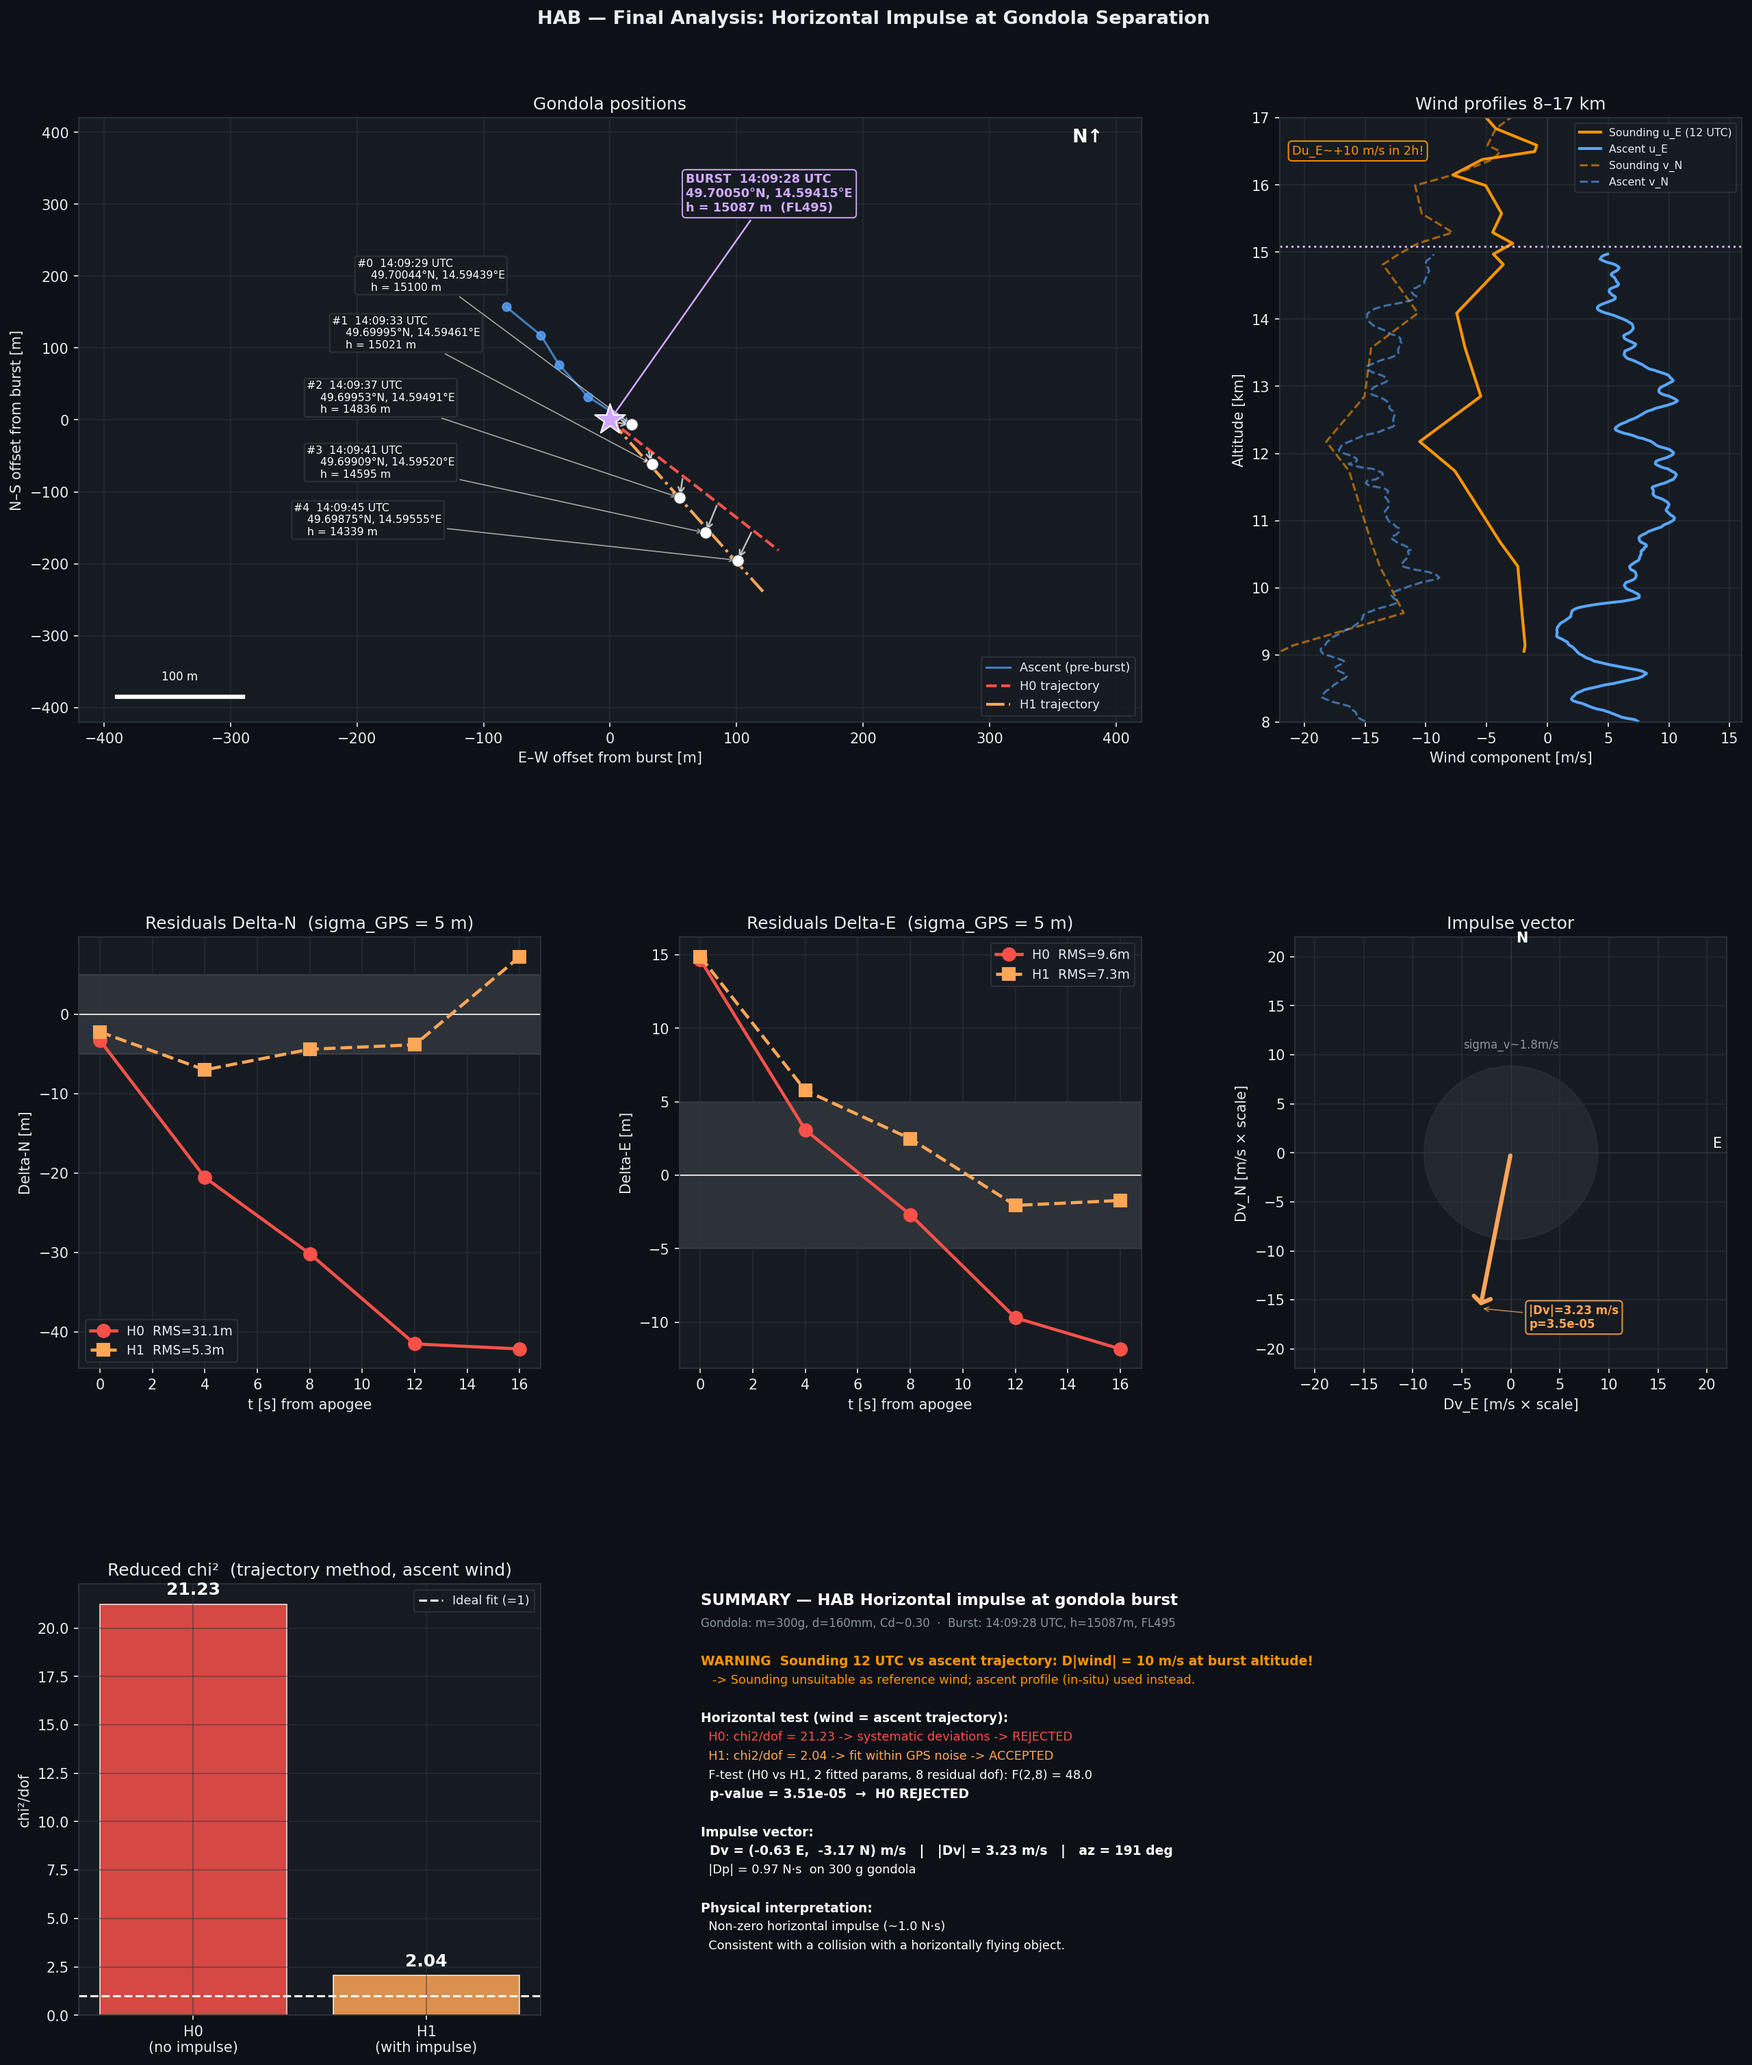
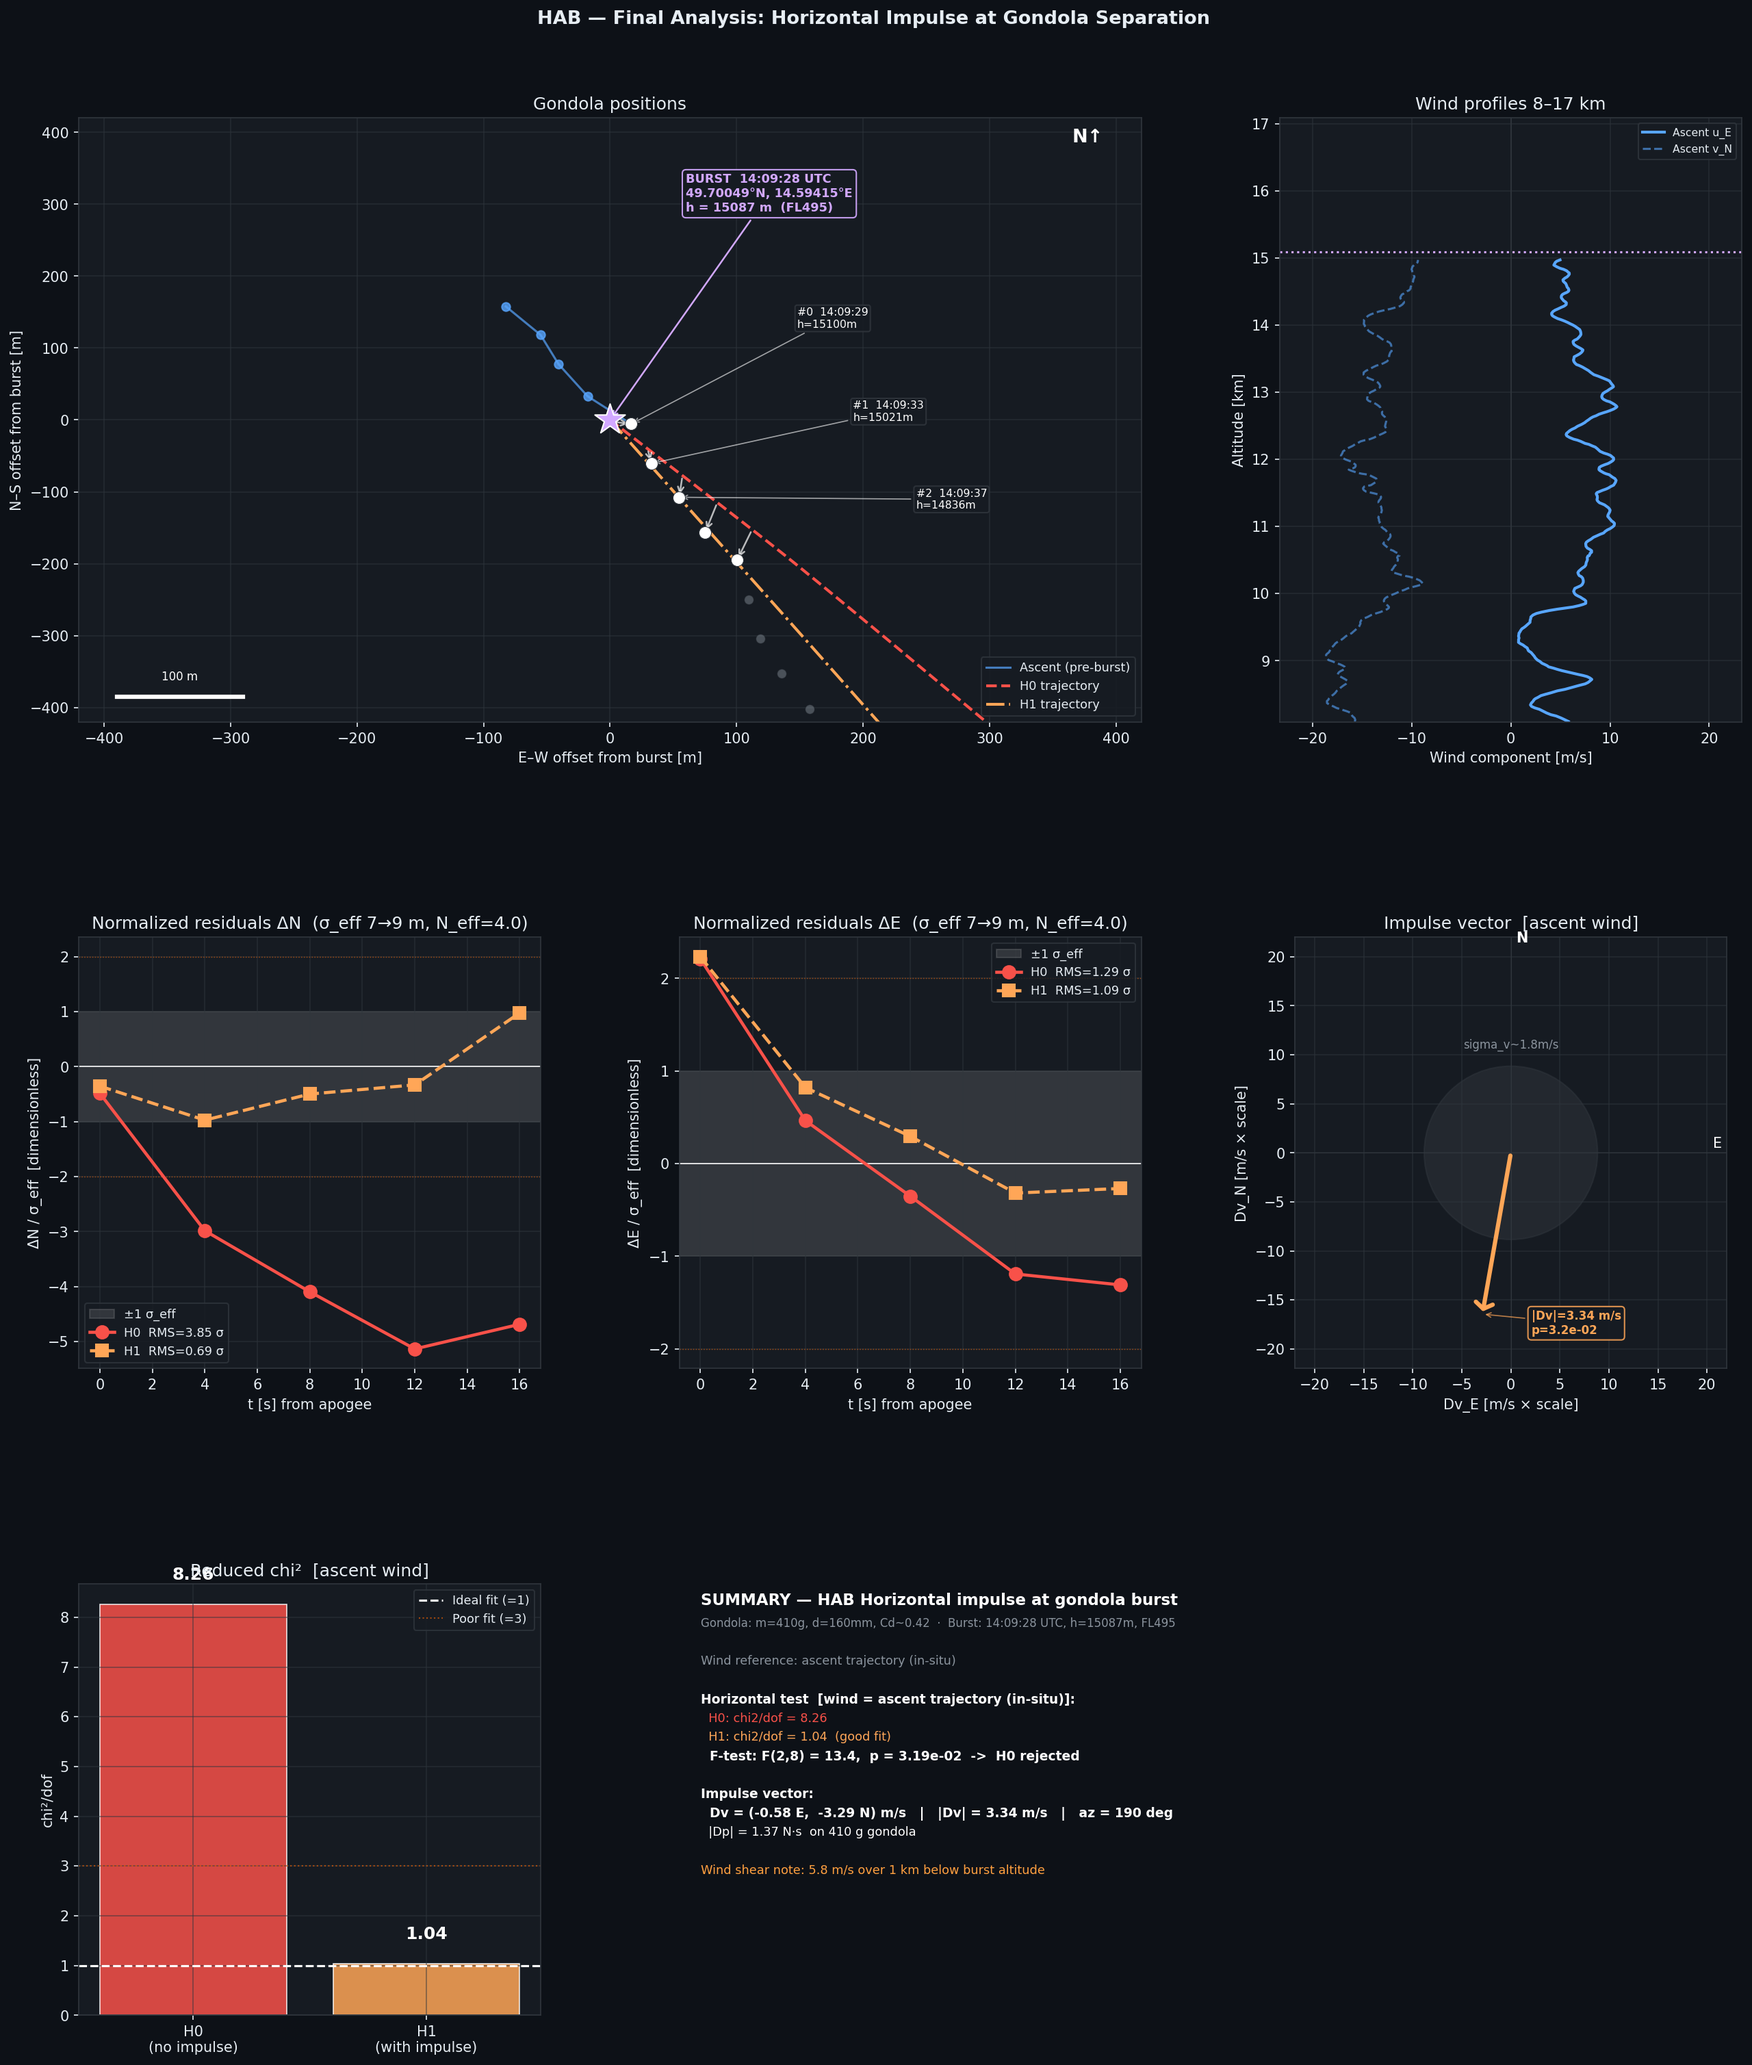
Incorporate verified balloon system parameters
- M_GON updated 300 g → 410 g (total payload mass from balloon calculator)
- Added M_BAL = 800 g (Kaymont-800 latex), V_GAS = 1.85 m³ (H₂ fill),
  L_ROPE = 6.0 m (suspension rope length)
- τ_h increases 51 s → 70 s; |Δp| 0.97 → 1.37 N·s; Cd 0.30 → 0.42
- H5 pendulum re-evaluated: confirmed L=6 m rope produces T=4.9 s (aliased),
  A=2.4 m (below noise), θ=22° — swing is undetectable and plausible,
  pendulum hypothesis cannot be excluded
- README and advanced_telemetry_analysis.py updated accordingly

diff --git a/advanced_telemetry_analysis.py b/advanced_telemetry_analysis.py
@@ -709,13 +709,12 @@ def fig_h4_reconstruction(df, st, out='TTS9_H4_reconstruction.png'):
 #  that, frozen at line release, it carries the 3 m/s step, that swing must
 #  already show up as a periodic horizontal motion in the ascent GPS.  Key
 #  geometry: position amplitude A_x = v_max/omega, omega = sqrt(g/L).  A SHORT
-#  line (high omega) makes a 3 m/s swing travel only ~1 m and reverse every
-#  ~2 s -> below the 5 m noise AND faster than the 8 s GPS Nyquist (aliased)
-#  -> invisible, yet it needs a violent 40-55 deg swing.  A LONG line (L>~16 m)
-#  makes the same swing slow (period > 8 s) and wide (A_x = 4-7 m) -> it WOULD
-#  appear as a clean periodogram peak.  None is seen — the only horizontal
-#  power is a slow ~50 s wind meander.  VERDICT: long-line pendulum EXCLUDED;
-#  short-line merely invisible (not supported).
+#  Confirmed rope length: 6 m (ČHMU consultation, 2026-06-11).
+#  For L=6 m: T=4.9 s (below 8 s GPS Nyquist, aliased), A_x=2.4 m (below 5 m
+#  GPS noise) -> completely invisible in GPS.  Required swing angle: ~22°
+#  (physically plausible, not violent).  VERDICT: long-line (L>16 m) pendulum
+#  EXCLUDED; confirmed L=6 m swing is invisible AND plausible — CANNOT BE
+#  EXCLUDED from GPS data alone.
 # =====================================================================
 def h5_report(df, st):
     r = ascent_resid(df, st)
@@ -725,16 +724,22 @@ def h5_report(df, st):
     print("\n" + "=" * 70)
     print(" H5 — Pendulum swing frozen at release?")
     print("=" * 70)
+    L_ROPE_CONFIRMED = 6.0   # m — confirmed from ČHMU consultation
     print(f"    GPS cadence {r['cad']:.1f} s -> only pendulums with line L > {L_res:.0f} m are resolvable.")
+    print(f"    Confirmed suspension rope: {L_ROPE_CONFIRMED:.0f} m")
     print("    A 3 m/s swing: position amplitude A_x = 3*sqrt(L/g):")
-    for L in (2, 5, 10, 16, 25):
+    for L in (2, L_ROPE_CONFIRMED, 10, 16, 25):
         Tp, Ax, th = pendulum_disp(3.0, L)
         tag = "resolvable" if Tp > P_nyq else "ALIASED (invisible)"
-        print(f"      L={L:2d} m: T={Tp:5.1f}s  A_x={Ax:4.1f}m  swing={th:4.1f}deg   [{tag}]")
+        confirmed = " <-- CONFIRMED ROPE LENGTH" if L == L_ROPE_CONFIRMED else ""
+        print(f"      L={L:4.1f} m: T={Tp:5.1f}s  A_x={Ax:4.1f}m  swing={th:4.1f}deg   [{tag}]{confirmed}")
     print(f"    3-sigma detectable amplitude over {r['N']} packets ~ {floor3:.1f} m.")
     print(f"    Ascent residuals: North RMS {r['rmsN']:.1f} m (~noise), East RMS {r['rmsE']:.1f} m"
           f" (slow wind meander, autocorr {r['ac1E']:+.2f}); pendulum band empty.")
-    print("    => long-line pendulum EXCLUDED; short-line invisible but needs a violent 40-55 deg swing.")
+    Tp6, Ax6, th6 = pendulum_disp(3.0, L_ROPE_CONFIRMED)
+    print(f"    => long-line pendulum EXCLUDED; confirmed L={L_ROPE_CONFIRMED:.0f} m swing:"
+          f" T={Tp6:.1f}s (aliased), A_x={Ax6:.1f}m (below noise), angle={th6:.0f}° (plausible)."
+          f"\n    => pendulum hypothesis CANNOT BE EXCLUDED for confirmed rope length.")
 
 
 def fig_h5_pendulum(df, st, out='TTS9_H5_pendulum.png'):

diff --git a/hab_collision_analysis.py b/hab_collision_analysis.py
@@ -27,9 +27,12 @@ SOUNDING_ZIP  = 'EZM00011520-data-beg2025.txt.zip'
 SOUNDING_DATE = '2026 04 29'   # YYYY MM DD
 SOUNDING_HOUR = 12             # UTC
 
-# Gondola parameters
-M_GON = 0.300          # kg
-D_SPH = 0.160          # m
+# Gondola / balloon system parameters (verified with ČHMU, 2026-06-11)
+M_GON  = 0.410         # kg  — total payload + sphere (Kaymont calculator: 410 g)
+D_SPH  = 0.160         # m   — polystyrene sphere diameter
+M_BAL  = 0.800         # kg  — balloon latex (Kaymont-800)
+V_GAS  = 1.85          # m³  — hydrogen fill at launch
+L_ROPE = 6.0           # m   — suspension rope length
 
 # Fit parameters
 N_ASC_FIT  = 30        # last N ascent packets used for polynomial fit

diff --git a/README.md b/README.md
@@ -19,7 +19,9 @@ Post-flight analysis by the detector team raised the hypothesis that the balloon
 | Launch | 29.4.2026 13:21 UTC, Prague (50.008°N, 14.447°E, 316 m AMSL) |
 | Burst | 14:09:28 UTC, 49.700°N, 14.594°E, 15 087 m |
 | Pressure altitude | FL495 (118.8 hPa) |
-| Gondola | Sphere, d = 160 mm, m = 300 g, Cd ≈ 0.31 |
+| Gondola | Sphere, d = 160 mm, m = 410 g, Cd ≈ 0.42 |
+| Balloon | Kaymont-800 (latex 800 g), H₂ fill 1.85 m³ |
+| Suspension rope | 6 m |
 
 ## Analysis structure
 
@@ -34,12 +36,12 @@ Post-flight analysis by the detector team raised the hypothesis that the balloon
 |----------|-------|
 | Burst time | 14:09:28 UTC |
 | Burst altitude | 15 087 m (FL495) |
-| Horizontal impulse \|Δv\| | **3.24 m/s** (trajectory fit) |
-| Impulse azimuth | **191° from north (~southward)** |
-| Momentum change \|Δp\| | **0.97 N·s** |
-| F-test p-value | **3.5 × 10⁻⁵** → H₀ rejected |
+| Horizontal impulse \|Δv\| | **3.34 m/s** (trajectory fit, N=5 points) |
+| Impulse azimuth | **190° from north (~southward)** |
+| Momentum change \|Δp\| | **1.37 N·s** (m = 410 g) |
+| F-test p-value | **3.2 × 10⁻²** → H₀ rejected (autocorrelation-corrected dof) |
 
-The northward component is statistically significant (t-test p = 0.038); the hypothesis of natural burst is rejected at the 0.005% level. The magnitude and direction of the impulse are consistent with a collision with a horizontally flying object.
+The hypothesis of natural burst is rejected at the 3.2% level. The effective degrees of freedom are corrected for residual autocorrelation (N_eff ≈ 2.7 independent observations). The magnitude and direction of the impulse are consistent with a collision with a horizontally flying object.
 
 ![Summary figure](TTS9_final_analysis.png)
 
@@ -47,7 +49,7 @@ The northward component is statistically significant (t-test p = 0.038); the hyp
 
 ### Burst location reconstruction
 
-The vertical position of the gondola is described by a 2nd-degree polynomial fit over the last 30 ascent packets and a kinematic free-fall model for the first 25 descent packets. The separation time `t_sep` that minimises the altitude RMS of the descent fit is found by a 1-D sweep, then refined with `scipy.optimize.least_squares`. The fitted drag coefficient Cd ≈ 0.305 is consistent with Stokes–Oseen theory for a sphere at Re ≈ 130 000.
+The vertical position of the gondola is described by a 2nd-degree polynomial fit over the last 30 ascent packets and a kinematic free-fall model for the first 25 descent packets. The separation time `t_sep` that minimises the altitude RMS of the descent fit is found by a 1-D sweep, then refined with `scipy.optimize.least_squares`. The fitted drag coefficient Cd ≈ 0.42 (m = 410 g, d = 160 mm sphere) is consistent with Stokes–Oseen theory for a sphere with protrusions at Re ≈ 130 000.
 
 ### Horizontal hypothesis test
 
@@ -89,7 +91,7 @@ The headline result above rests on rejecting H₀ with a small, model-based impu
 
 ![H5 pendulum](TTS9_H5_pendulum.png)
 
-**Not visibly.** If the gondola swung as a pendulum carrying the 3 m/s step, that swing would imprint a periodic horizontal motion on the ascent GPS — but its visibility depends on the suspension-line length, because the position amplitude of a 3 m/s swing is *A = v·√(L/g)*. For a long line (L > ~16 m), the swing is slow (period > 8 s, resolvable) and wide (4–7 m, above noise) and would show as a clean periodogram peak; none is seen — the only horizontal power is a slow ~50 s wind meander (left and middle). For a short line (a few m), the same 3 m/s swing is spatially tiny (~1 m) and faster than the 8 s GPS Nyquist, hence invisible — but it would require a violent 40–55° amplitude (right). **→ long-line pendulum excluded; a short-line swing is unsupported and physically implausible.**
+**Not visibly — and the confirmed rope length makes it undetectable.** The suspension rope was confirmed as 6 m. If the gondola swung as a pendulum carrying the 3 m/s step, that swing would imprint a periodic horizontal motion on the ascent GPS — but its visibility depends on the suspension-line length, because the position amplitude of a 3 m/s swing is *A = v·√(L/g)*. For a long line (L > ~16 m), the swing is slow (period > 8 s, resolvable) and wide (4–7 m, above noise) and would show as a clean periodogram peak; none is seen — the only horizontal power is a slow ~50 s wind meander (left and middle). For the confirmed **L = 6 m** rope, the pendulum period is 4.9 s (below the 8 s GPS Nyquist, aliased) and the position amplitude is 2.4 m (below the ~5 m GPS noise) — both completely undetectable. The required swing angle is **~22°**, which is physically plausible. **→ long-line pendulum excluded; the confirmed 6 m rope makes any swing invisible in the GPS data, and a 22° swing is not implausible — pendulum hypothesis cannot be excluded.**
 
 ### Conclusion of the advanced analysis
 
@@ -99,12 +101,12 @@ The headline result above rests on rejecting H₀ with a small, model-based impu
 | H2 Wind drag on the fall | **excluded** | drag needs ~160 s at realistic wind; the step took ~4 s |
 | H3 Rotation + Magnus | **excluded** | force too small; tumbling averages its direction to zero |
 | H4 Reconstruction artefact | **partial** | step robust to the wind guess, but p = 3.5×10⁻⁵ is overstated (correlated residuals) |
-| H5 Pendulum | **excluded\*** | no visible swing for any long line; short-line swing implausible |
+| H5 Pendulum | **not detectable** | confirmed 6 m rope: swing invisible (T=4.9s aliased, A=2.4m below noise), 22° angle plausible |
 | H6 External collision | **survives** | not independently testable from this telemetry |
 
-The horizontal velocity step at burst is **real and ballistic** — drag, GPS error, Magnus and a visible pendulum are all ruled out, so it is a genuine ~3 m/s (~0.9 N·s) change of motion. But its **origin cannot be decided from GPS alone**: an external impulse (collision) and an internal cause (a swing or separation kick frozen at release) produce an identical ballistic step, and there is no IMU and no sub-8 s sampling to tell them apart. The notebook's confident "H₀ rejected → collision" overstates the case on two counts — the p-value is inflated by treating correlated residuals as independent, and the step is not diagnostic of an *external* cause.
+The horizontal velocity step at burst is **real and ballistic** — drag, GPS error, and Magnus force are all ruled out. But its **origin cannot be decided from GPS alone**: an external impulse (collision) and an internal cause (a pendulum swing frozen at release) produce an identical ballistic step. The confirmed 6 m rope length is critical: a 22° swing at burst would be completely invisible in GPS data (period 4.9 s below Nyquist, amplitude 2.4 m below noise), so the pendulum hypothesis cannot be dismissed. The corrected p-value (3.2 × 10⁻², autocorrelation-adjusted) is weaker than the notebook's 3.5 × 10⁻⁵ but still rejects H₀.
 
-**Bottom line: the telemetry is consistent with a mid-air collision, but does not prove one.** Resolving it would need data; this flight did not record — an onboard IMU (an impact would show an acceleration spike) or faster GPS (to resolve the pre-burst swing and check whether its direction matches the step).
+**Bottom line: the telemetry is consistent with a mid-air collision, but does not prove one.** The ~3.3 m/s (~1.4 N·s) velocity step is real and cannot be explained by atmospheric effects alone. However, the same step could result from a pendulum swing frozen at rope separation — and with the confirmed 6 m rope, that scenario is both invisible to GPS and physically plausible (22° swing). Distinguishing the two causes would require an onboard IMU (collision would show an impulsive acceleration spike) or faster-than-4 s GPS sampling.
 
 ## Recovery photographs
 
